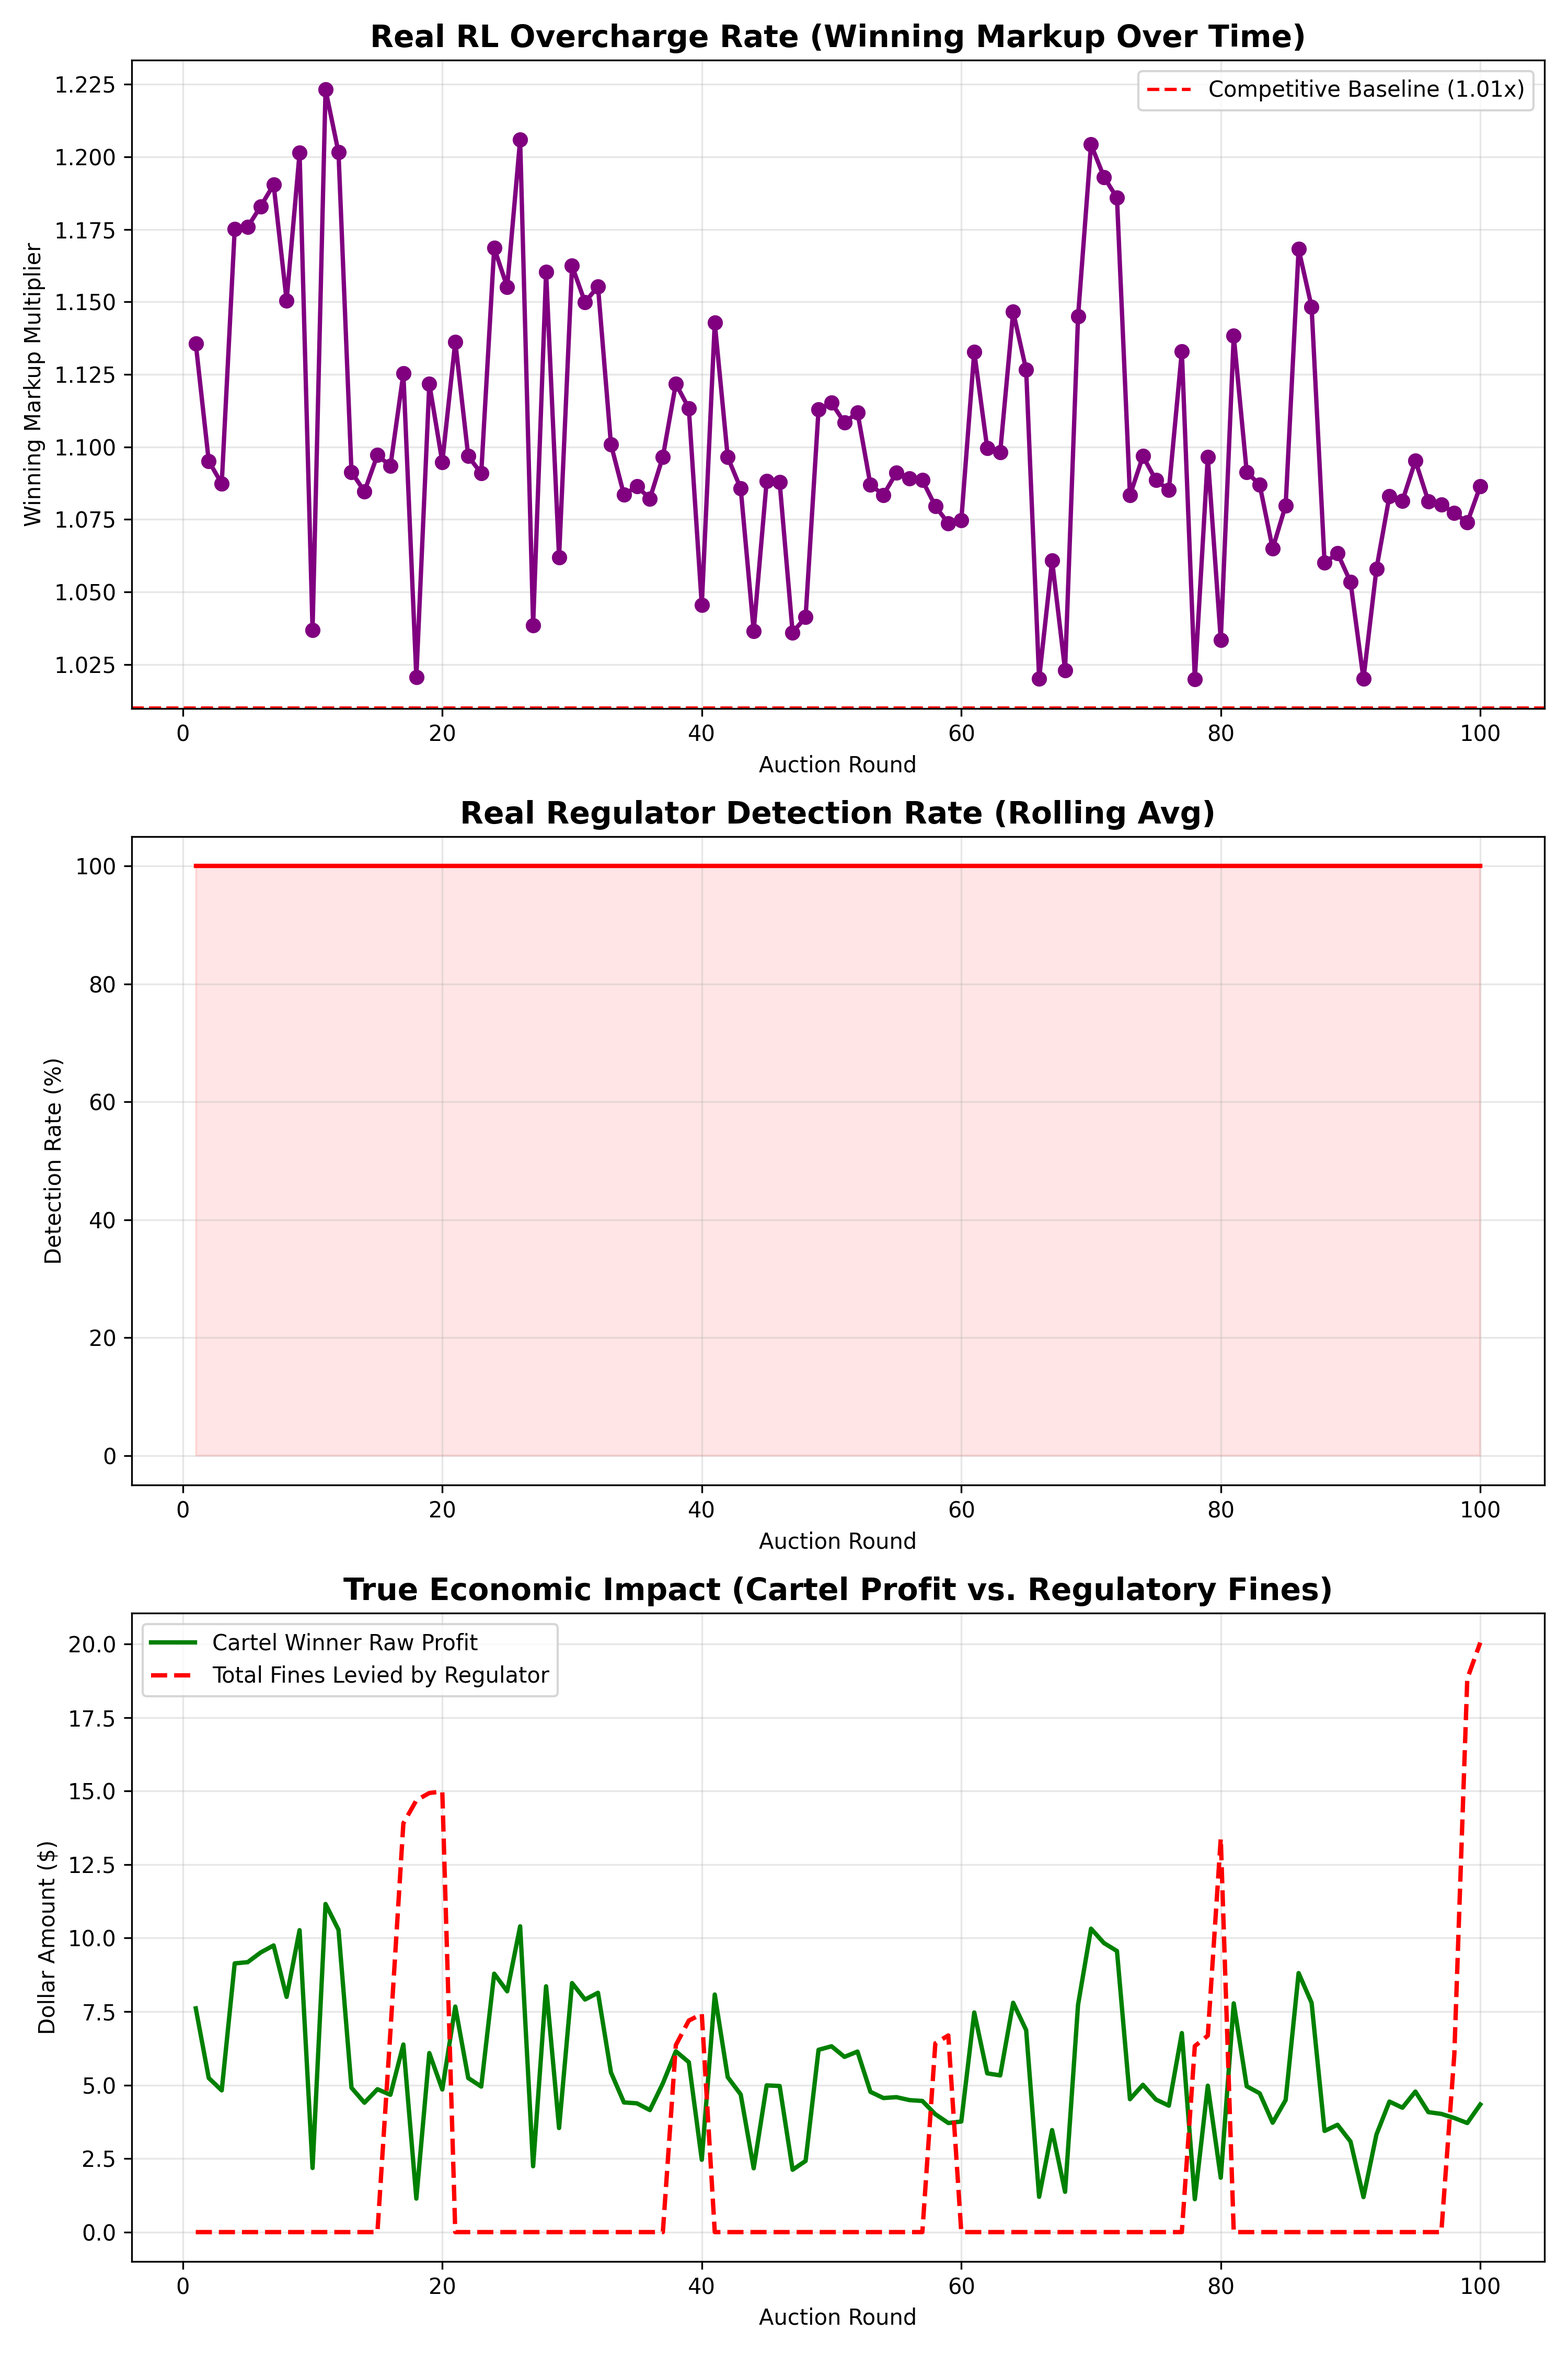
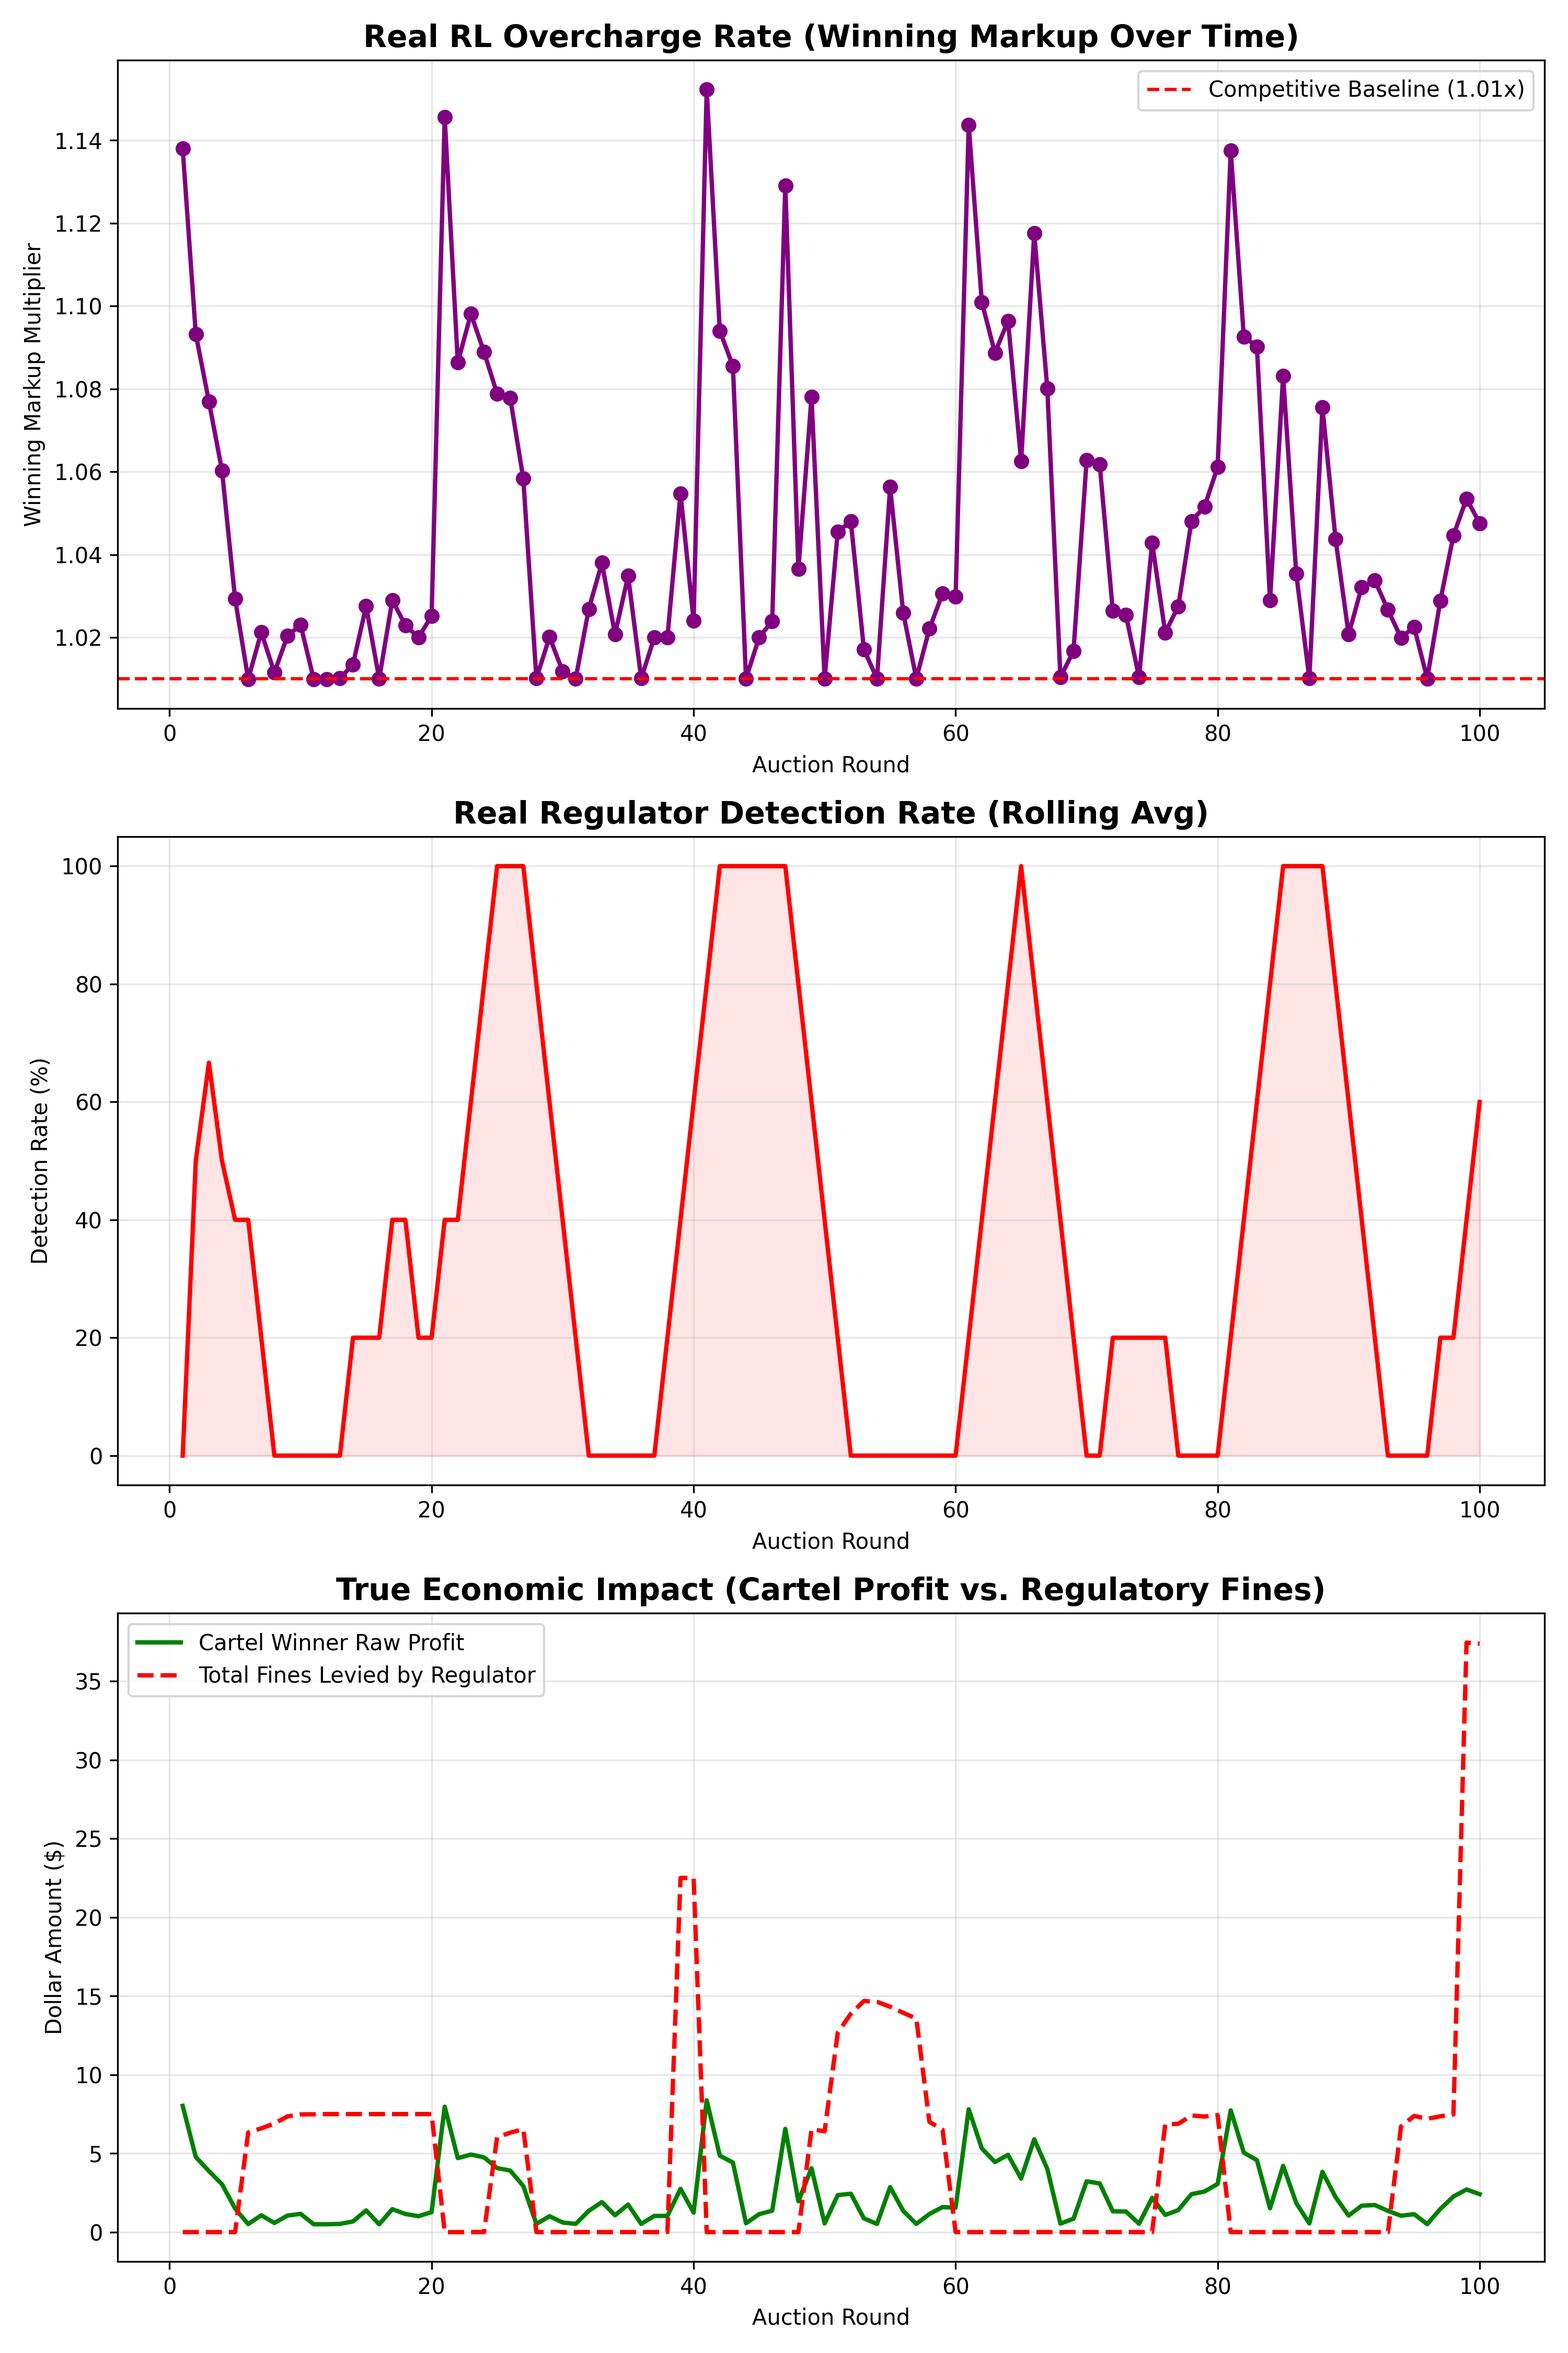
Metrics: Enable exploration noise for realistic evaluation plot

diff --git a/scripts/evaluate_real_metrics.py b/scripts/evaluate_real_metrics.py
@@ -79,7 +79,7 @@ def evaluate_and_plot_real_metrics(num_episodes=5):
             policies={"shared_policy": (None, obs_space, act_space, {})},
             policy_mapping_fn=policy_mapping_fn,
         )
-        .env_runners(num_env_runners=1, explore=False)
+        .env_runners(num_env_runners=1, explore=True)
         .resources(num_gpus=0)
     )
     algo = config.build_algo()
@@ -113,7 +113,7 @@ def evaluate_and_plot_real_metrics(num_episodes=5):
         for r in range(1, ROUNDS_PER_EPISODE + 1):
             actions = {
                 a: algo.compute_single_action(
-                    observation=obs[a], policy_id="shared_policy", explore=False
+                    observation=obs[a], policy_id="shared_policy", explore=True
                 )
                 for a in env.agents
             }
